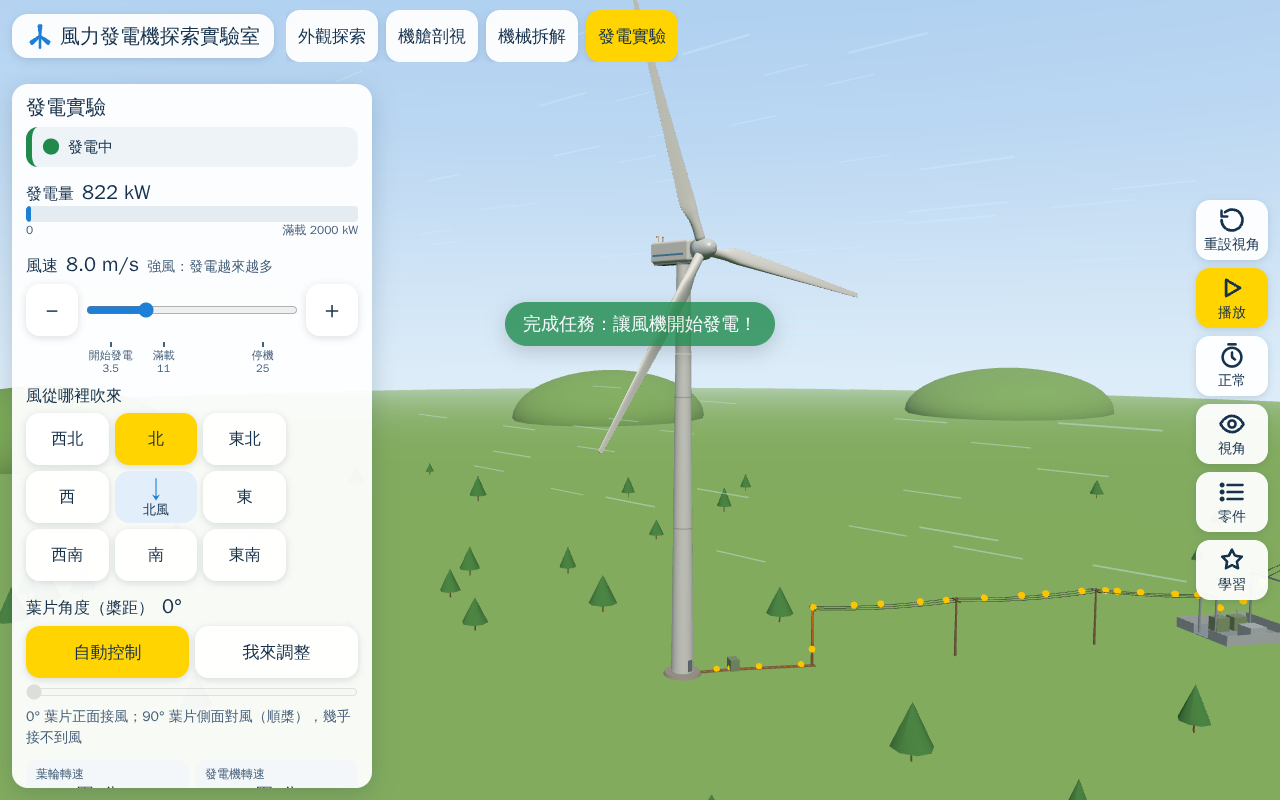
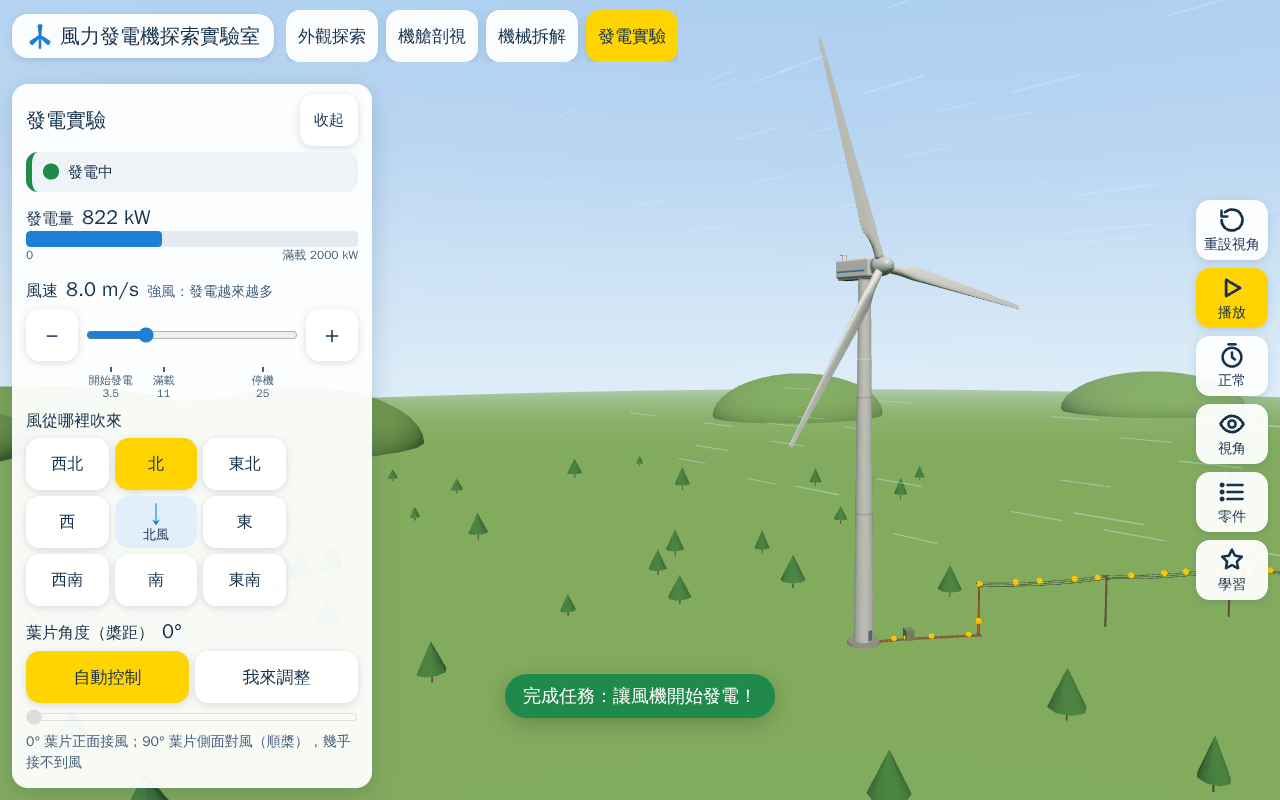
手機版發電實驗面板不再擋住風機
- 面板擋住畫面時，3D 畫面的中心移到沒被擋住的區域（手機：標題列與面板之間；桌面：左側面板右邊），必要時稍微縮小，整台風機都看得到；只改相機投影位移，點選與標籤位置一起正確
- 面板可收起成一行摘要（狀態、發電量、風速），按「調整」再展開；狀態存在集中 store
- 手機上展開的面板最高 40% 螢幕
- 完成任務提示移到不擋風機的位置（桌面下方、手機標題列下方）
- 截圖檢查：桌面與手機（展開／收起）都確認輪轂投影在面板外

Claude-Session: https://claude.ai/code/session_018NhKTKtGJUbwg2mJp8yn6q

diff --git a/src/ui/style.css b/src/ui/style.css
@@ -145,8 +145,17 @@ body { font-family: var(--font); color: var(--ink); -webkit-tap-highlight-color:
 }
 .xp[hidden] { display: none; }
 .xp-head { display: flex; align-items: center; justify-content: space-between; }
-.xp-head h2 { margin: 0; font-size: 20px; }
-.btn.xp-fold { font-size: 15px; padding: 0 12px; display: none; }
+.xp-head h2 { margin: 0; font-size: 20px; flex: none; }
+.xp-head { gap: 8px; }
+.xp-summary { display: none; flex: 1; min-width: 0; align-items: center; gap: 8px; font-variant-numeric: tabular-nums; white-space: nowrap; overflow: hidden; }
+.xp-summary i { font-style: normal; }
+.xp-summary i.good { color: var(--good); } .xp-summary i.warning { color: var(--warning); }
+.xp-summary i.serious { color: var(--serious); } .xp-summary i.critical { color: var(--critical); } .xp-summary i.idle { color: var(--idle); }
+.xp-summary span { color: var(--ink-soft); }
+.xp.folded .xp-summary { display: flex; }
+.xp.folded .xp-body { display: none; }
+.xp.folded { bottom: auto; overflow: hidden; }
+.btn.xp-fold { display: inline-flex; font-size: 15px; padding: 0 14px; flex: none; }
 .xp-body { display: flex; flex-direction: column; gap: 12px; margin-top: 6px; }
 .xp-group { display: flex; flex-direction: column; gap: 6px; }
 .xp-line { display: flex; align-items: baseline; gap: 8px; flex-wrap: wrap; }
@@ -216,7 +225,7 @@ body { font-family: var(--font); color: var(--ink); -webkit-tap-highlight-color:
 .btn.primary { background: var(--accent); color: #fff; }
 
 .toast {
-  position: absolute; left: 50%; top: 38%; transform: translate(-50%, -10px); opacity: 0; visibility: hidden;
+  position: absolute; left: 50%; bottom: calc(max(12px, env(safe-area-inset-bottom)) + 70px); transform: translate(-50%, 10px); opacity: 0; visibility: hidden;
   background: var(--good); color: #fff; font-weight: 700; font-size: 18px; padding: 10px 18px; border-radius: 999px;
   box-shadow: 0 6px 20px rgba(0, 0, 0, 0.2); transition: opacity 0.3s, transform 0.3s; pointer-events: none !important;
   max-width: calc(100vw - 24px); text-align: center;
@@ -260,10 +269,10 @@ body { font-family: var(--font); color: var(--ink); -webkit-tap-highlight-color:
   .btn.cut { flex: none; font-size: 15px; padding: 6px 10px; }
   .cutnote { font-size: 12px; }
   .partlist { max-height: 60vh; }
-  .xp { top: auto; left: 8px; right: 8px; width: auto; bottom: calc(max(8px, env(safe-area-inset-bottom)) + 68px); max-height: 46vh; padding: 8px 12px 12px; }
-  .btn.xp-fold { display: inline-flex; min-height: 48px; }
-  .xp.folded .xp-body { display: none; }
-  .xp.folded { max-height: none; }
+  .xp { top: auto; left: 8px; right: 8px; width: auto; bottom: calc(max(8px, env(safe-area-inset-bottom)) + 68px); max-height: 40vh; padding: 8px 12px 12px; }
+  .xp.folded { bottom: calc(max(8px, env(safe-area-inset-bottom)) + 68px); max-height: none; padding-bottom: 8px; }
+  .xp-head h2 { font-size: 18px; }
+  .toast { bottom: auto; top: 118px; font-size: 16px; transform: translate(-50%, -10px); } /* 標題列下方，不擋風機與面板 */
   .xp-compass { max-width: none; gap: 4px; }
   .btn.dir { min-height: 44px; font-size: 15px; }
   .xp-body { gap: 10px; }

diff --git a/src/main.js b/src/main.js
@@ -192,6 +192,40 @@ window.addEventListener('resize', resize);
 resize();
 rig.jump('default'); // 依螢幕比例調整初始視角
 
+// 面板擋住畫面時，把 3D 畫面的中心移到「沒被擋住的區域」中央，必要時稍微縮小，讓整台風機看得到
+// （手機：上方標題列與下方面板之間；桌面：左側面板右邊）。只改相機的投影位移，點選與標籤位置會跟著正確。
+const xpEl = document.querySelector('.xp');
+const headerEl = document.querySelector('#ui .top');
+const viewShift = { cx: 0, cy: 0, scale: 1 }; // 相對螢幕中心的位移（px）與縮放
+function targetShift() {
+  const w = window.innerWidth, h = window.innerHeight;
+  if (store.get().mode !== 'experiment' || !xpEl || xpEl.hidden) return { cx: 0, cy: 0, scale: 1 };
+  const r = xpEl.getBoundingClientRect();
+  let left = 0, top = 0, bottom = h;
+  if (r.width > w * 0.6) { // 下方面板（手機）
+    bottom = r.top;
+    top = headerEl ? headerEl.getBoundingClientRect().bottom : 0;
+  } else {
+    left = r.right; // 左側面板（桌面）
+  }
+  const bandW = w - left, bandH = Math.max(80, bottom - top);
+  const scale = Math.min(1, Math.max(0.5, Math.min(bandH / (h * 0.8), bandW / (w * 0.8))));
+  return { cx: (left + w) / 2 - w / 2, cy: (top + bottom) / 2 - h / 2, scale };
+}
+function updateViewShift(dt) {
+  const t = targetShift();
+  const k = Math.min(1, dt * 6); // 平滑移動，不突然跳
+  for (const key of ['cx', 'cy', 'scale']) viewShift[key] += (t[key] - viewShift[key]) * k;
+  const w = window.innerWidth, h = window.innerHeight;
+  if (Math.abs(viewShift.cx) < 0.5 && Math.abs(viewShift.cy) < 0.5 && Math.abs(viewShift.scale - 1) < 0.002) {
+    rig.camera.clearViewOffset();
+    return;
+  }
+  // 完整影像縮成 scale 倍，並讓它的中心落在「沒被擋住區域」的中心
+  const fw = w * viewShift.scale, fh = h * viewShift.scale;
+  rig.camera.setViewOffset(fw, fh, fw / 2 - (w / 2 + viewShift.cx), fh / 2 - (h / 2 + viewShift.cy), w, h);
+}
+
 // 標籤位置：所選零件包圍盒的頂端中央
 const tmp = new THREE.Vector3();
 function markerScreen() {
@@ -220,6 +254,7 @@ function frame() {
   readoutT += dt;
   if (readoutT > 0.2) { readoutT = 0; panel.update(sim.get()); checkMissions(); }
   rig.update(dt);
+  updateViewShift(dt);
   renderer.render(scene, rig.camera);
   ui.placeMarker(markerScreen());
   frames++; fpsT += dt;
@@ -244,6 +279,7 @@ window.__lab = {
   flows,
   speech,
   checkMissions,
+  viewShift: () => ({ ...viewShift }),
   stats: () => ({ fps, drawCalls: renderer.info.render.calls, triangles: renderer.info.render.triangles, pixelRatio: renderer.getPixelRatio() }),
   pickAt: (x, y) => picker.pickAt(x, y),
   partIds: () => PARTS.filter((p) => partMeshes.has(p.id)).map((p) => p.id),

diff --git a/src/ui/experimentPanel.js b/src/ui/experimentPanel.js
@@ -45,13 +45,11 @@ export function createExperimentPanel({ root, store, actions }) {
   const panel = el('section', { class: 'xp', 'aria-label': '發電實驗' });
   const head = el('div', { class: 'xp-head' });
   const title = el('h2', {}, '發電實驗');
+  // 收起時只留一行摘要（狀態、發電量、風速），手機上才看得到風機
+  const summary = el('div', { class: 'xp-summary', 'aria-hidden': 'true' });
   const fold = el('button', { class: 'btn icon xp-fold', type: 'button', 'aria-expanded': 'true' }, '收起');
-  fold.addEventListener('click', () => {
-    const closed = panel.classList.toggle('folded');
-    fold.textContent = closed ? '展開' : '收起';
-    fold.setAttribute('aria-expanded', String(!closed));
-  });
-  head.append(title, fold);
+  fold.addEventListener('click', () => store.set({ xpFolded: !store.get().xpFolded }));
+  head.append(title, summary, fold);
 
   const body = el('div', { class: 'xp-body' });
 
@@ -166,6 +164,9 @@ export function createExperimentPanel({ root, store, actions }) {
 
   function renderInputs(s) {
     panel.hidden = s.mode !== 'experiment';
+    panel.classList.toggle('folded', s.xpFolded);
+    fold.textContent = s.xpFolded ? '調整' : '收起';
+    fold.setAttribute('aria-expanded', String(!s.xpFolded));
     root.classList.toggle('mode-experiment', s.mode === 'experiment');
     windValue.textContent = `${s.windSpeed.toFixed(1)} m/s`;
     windDesc.textContent = windWords(s.windSpeed);
@@ -190,6 +191,7 @@ export function createExperimentPanel({ root, store, actions }) {
       if (s.pitchAuto) pitchSlider.value = String(Math.round(now.pitchDeg));
       pitchValue.textContent = `${Math.round(now.pitchDeg)}°`;
       const st = STATUS[now.status];
+      summary.innerHTML = `<i class="${st.tone}">${st.icon}</i><b>${Math.round(now.powerKW).toLocaleString('zh-TW')} kW</b><span>${now.windSpeed.toFixed(1)} m/s</span>`;
       status.className = `xp-status ${st.tone}`;
       status.innerHTML = `<i aria-hidden="true">${st.icon}</i><span>${st.text}</span>`;
       powerValue.textContent = `${Math.round(now.powerKW).toLocaleString('zh-TW')} kW`;

diff --git a/src/state/store.js b/src/state/store.js
@@ -26,6 +26,7 @@ const initial = () => ({
   quizPicked: null, // 這一題選了哪個答案（null = 還沒選）
   quizScore: 0,
   tourStep: null, // 導覽：第幾步（null = 不顯示）
+  xpFolded: false, // 發電實驗面板收起（手機上只留一行摘要）
 });
 
 const isCurrentPart = (v) => PARTS.some((p) => p.id === v && p.stage <= CURRENT_STAGE);
@@ -43,6 +44,7 @@ const validators = {
   quizPicked: (v) => v === null || (Number.isInteger(v) && v >= 0),
   quizScore: (v) => Number.isInteger(v) && v >= 0,
   tourStep: (v) => v === null || (Number.isInteger(v) && v >= 0),
+  xpFolded: (v) => typeof v === 'boolean',
   shellView: (v) => ['solid', 'transparent', 'hidden'].includes(v),
   exploded: (v) => typeof v === 'boolean',
   hiddenParts: (v) => Array.isArray(v) && v.every(isCurrentPart) && new Set(v).size === v.length,
